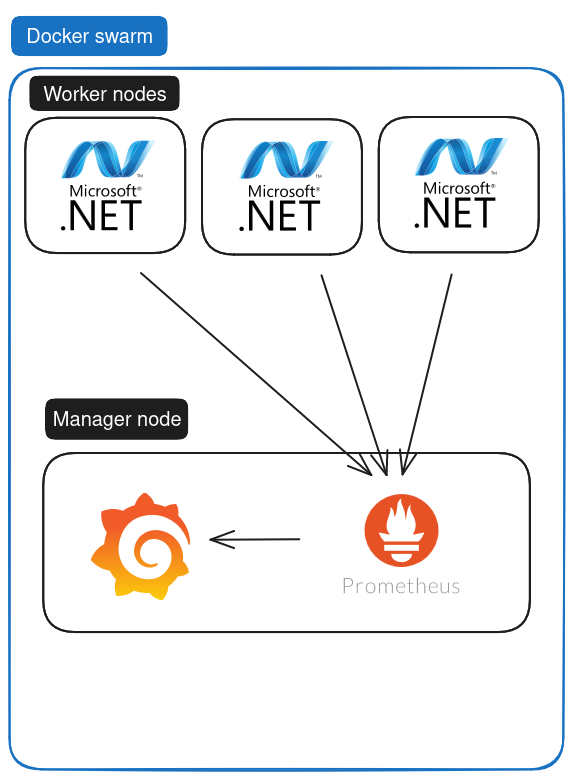
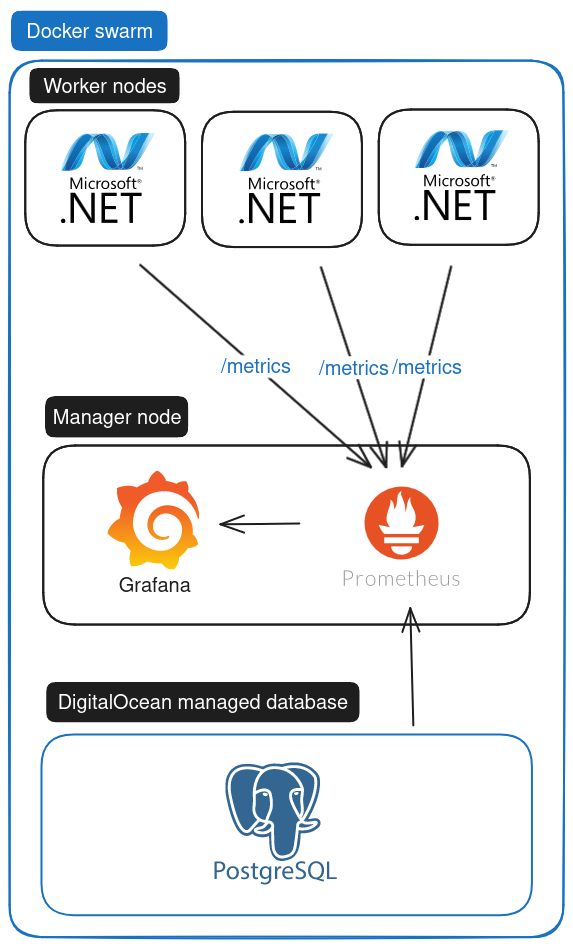
add example image

diff --git a/report/sections/process_perspective/monitoring.tex b/report/sections/process_perspective/monitoring.tex
@@ -13,13 +13,19 @@
 \paragraph{} Together, Prometheus and Grafana form a comprehensive monitoring solution that addresses both data collection and visualization needs. Prometheus's robust data collection, combined with Grafana's powerful visualization and dashboarding features, provide a seamless and efficient way to monitor and manage all our systems.
 
 \subsection{Implementation of monitoring} 
-\paragraph{} A docker container of Prometheus and Grafana is running on the manager node in our docker swarm. Prometheus has been programmed through Grafana to gather mertics on all minitwit instances in all worker nodes and display them on the manager nodes Grafana dashboard. In addition, Grafana gathers data from a managed Digitalocean database, and displays metrics such as total followers and total tweets.
+\paragraph{} A docker container of Prometheus and Grafana is running on the manager node in our docker swarm. Prometheus has been programmed through Grafana to gather mertics on all minitwit instances in all worker nodes and display them on the manager nodes Grafana dashboard. Metrics would be gathered on \{url\}:8080/metrics and that is where Prometheus can find them. In addition, Grafana gathers data from a managed Digitalocean database, and displays metrics such as total followers and total tweets.
 \paragraph{} The following figure describes how monitoring was implemented.
 \begin{figure}[H]
 	\centering
 	\includegraphics[width=1\textwidth]{Monitoring2.png}
 	\caption{Diagram describing our monitoring implementation}
 	\label{fig:Monitoring2}
+\end{figure}
+\begin{figure}[H]
+	\centering
+	\includegraphics[width=1\textwidth]{metrics.png}
+	\caption{Example of a worker nodes metrics page}
+	\label{fig:metrics}
 \end{figure}
 
 \subsection{Monitoring configuration}
